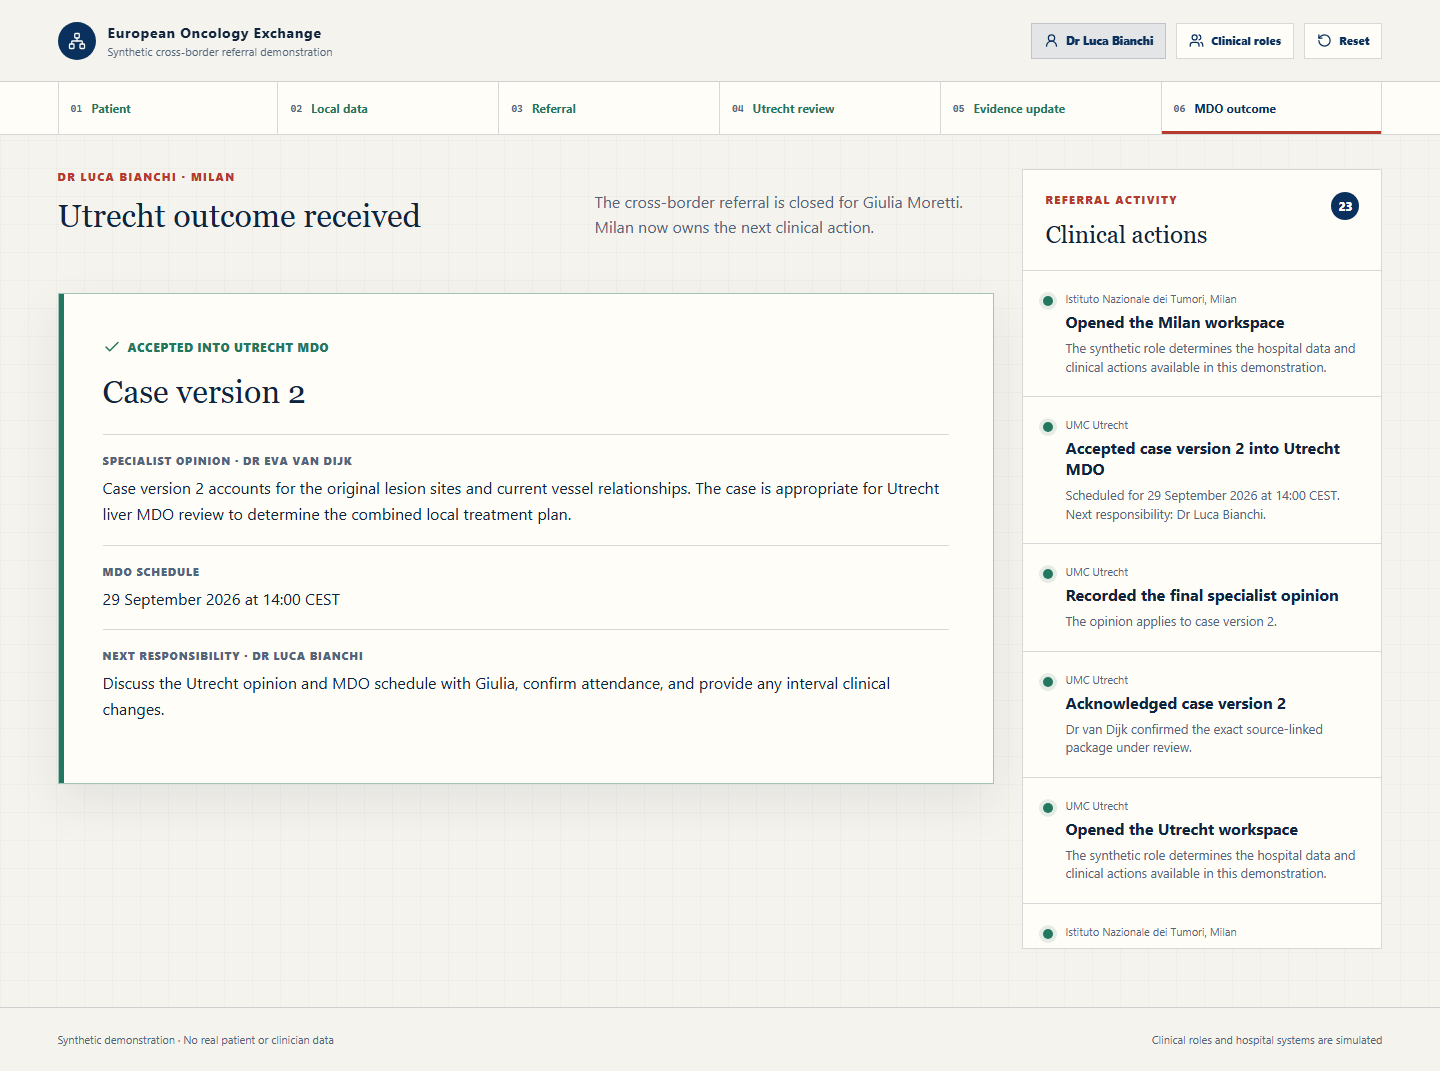
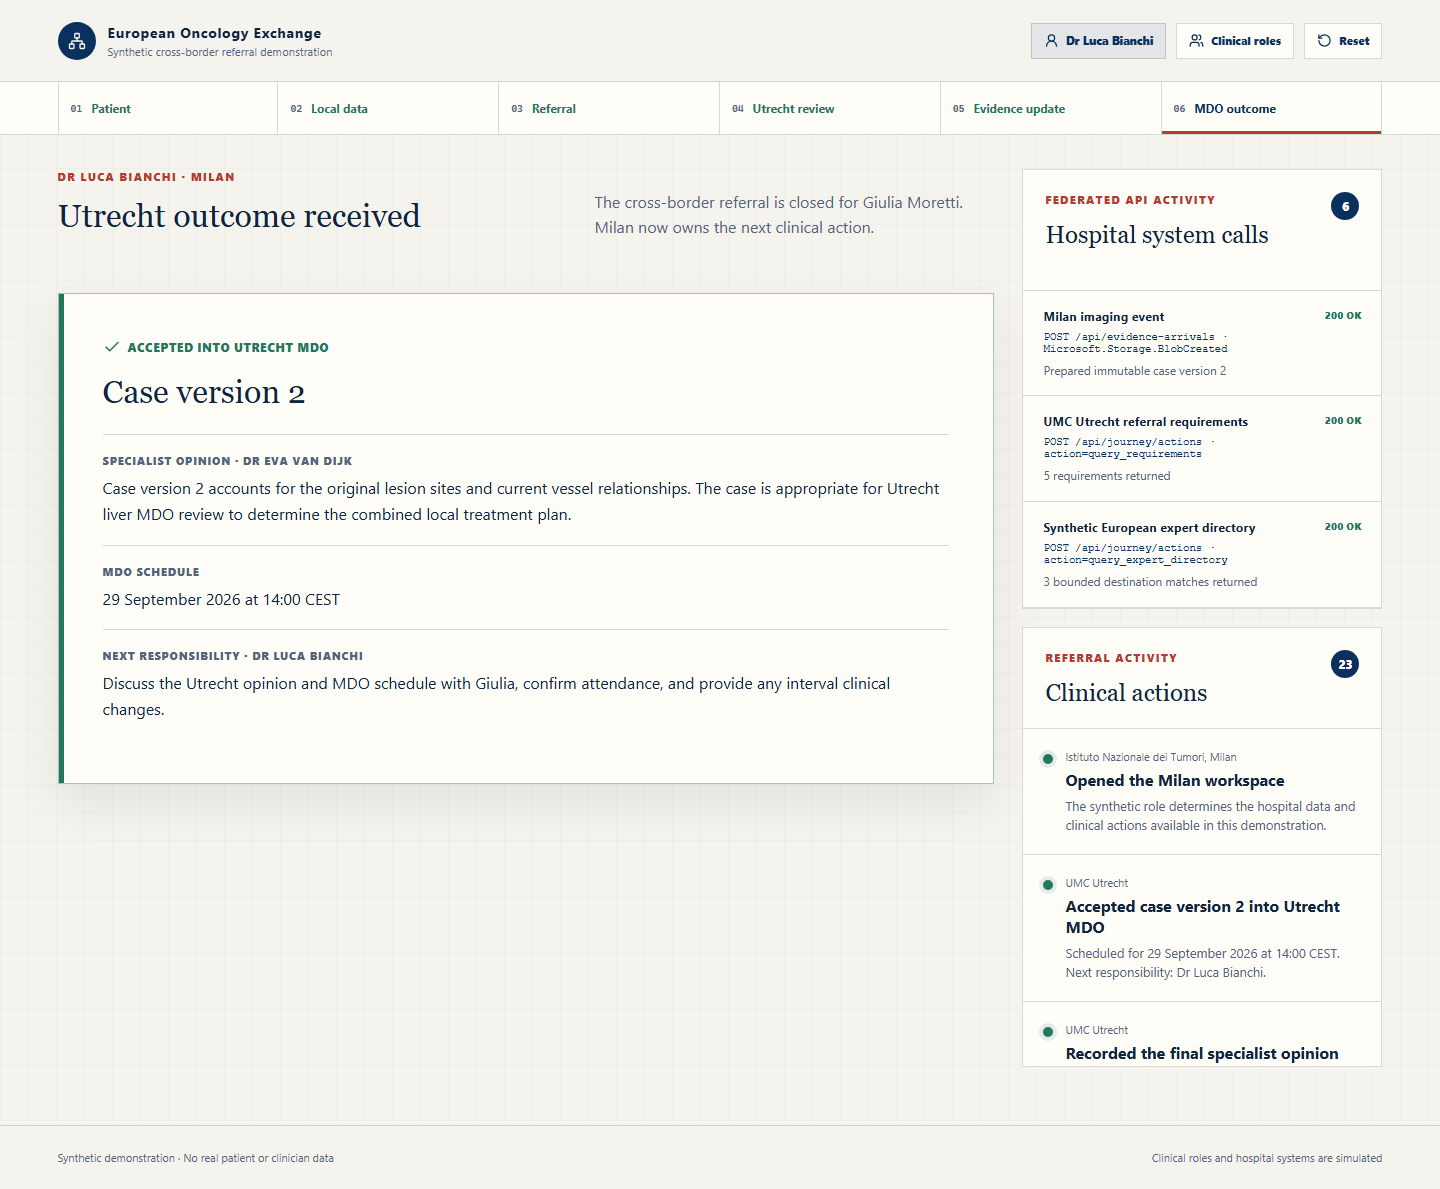
Keep federated API calls visible
The source request details previously lived only on the transient local-data screen. Add a persistent API activity panel with method, endpoint, source system, status, and result summary across every referral screen, plus a browser regression test.

Copilot-Session: 4f6a1c83-f0ff-47cc-892b-d9c9d4d22c84

diff --git a/frontend/src/App.tsx b/frontend/src/App.tsx
@@ -509,7 +509,10 @@ function App() {
               <MilanOutcome snapshot={snapshot} patient={selectedPatient} />
             )}
           </section>
-          <ActivityTimeline activity={snapshot.activity} />
+          <div className="journey-sidebar">
+            <ApiActivity snapshot={snapshot} />
+            <ActivityTimeline activity={snapshot.activity} />
+          </div>
         </div>
       )}
 
@@ -1535,6 +1538,94 @@ function MilanOutcome({
         </dl>
       </article>
     </section>
+  )
+}
+
+function ApiActivity({ snapshot }: { snapshot: JourneySnapshot }) {
+  const calls = [
+    ...snapshot.source_checks.map((check) => ({
+      id: check.source_id,
+      system: check.source_label,
+      endpoint: `POST ${check.endpoint}`,
+      status: check.status === 'complete' ? '200 OK' : 'Failed',
+      detail:
+        check.status === 'complete'
+          ? `${check.records.filter((record) => record.status === 'available').length} of ${check.records.length} expected records available`
+          : check.error ?? 'The source request failed.',
+    })),
+    ...(snapshot.activity.some((event) => event.kind === 'directory_queried')
+      ? [
+          {
+            id: 'expert-directory',
+            system: 'Synthetic European expert directory',
+            endpoint: 'POST /api/journey/actions · action=query_expert_directory',
+            status: '200 OK',
+            detail: `${snapshot.destinations.length} bounded destination matches returned`,
+          },
+        ]
+      : []),
+    ...(snapshot.activity.some((event) => event.kind === 'requirements_queried')
+      ? [
+          {
+            id: 'utrecht-requirements',
+            system: 'UMC Utrecht referral requirements',
+            endpoint: 'POST /api/journey/actions · action=query_requirements',
+            status: '200 OK',
+            detail: `${snapshot.requirements.length} requirements returned`,
+          },
+        ]
+      : []),
+    ...(snapshot.evidence_update
+      ? [
+          {
+            id: 'evidence-arrival',
+            system: 'Milan imaging event',
+            endpoint: 'POST /api/evidence-arrivals · Microsoft.Storage.BlobCreated',
+            status: '200 OK',
+            detail: `Prepared immutable case version ${snapshot.evidence_update.case_version}`,
+          },
+        ]
+      : []),
+  ]
+
+  return (
+    <aside className="api-activity" aria-label="API activity" tabIndex={0}>
+      <div className="timeline-heading">
+        <div>
+          <p className="eyebrow">Federated API activity</p>
+          <h2>Hospital system calls</h2>
+        </div>
+        <span>{calls.length}</span>
+      </div>
+      {calls.length === 0 ? (
+        <div className="timeline-empty">
+          <Network size={22} />
+          <p>Source-system requests will appear after a patient is selected.</p>
+        </div>
+      ) : (
+        <ol>
+          {[...calls].reverse().map((call) => (
+            <li key={call.id}>
+              <div className="api-call-heading">
+                <strong>{call.system}</strong>
+                <em className={call.status === '200 OK' ? 'success' : 'failed'}>
+                  {call.status}
+                </em>
+              </div>
+              <code>{call.endpoint}</code>
+              <p>{call.detail}</p>
+            </li>
+          ))}
+        </ol>
+      )}
+      <div className="timeline-boundary">
+        <Building2 size={17} />
+        <p>
+          These requests query hospital-owned systems. Querying does not copy every source record
+          into shared collaboration state.
+        </p>
+      </div>
+    </aside>
   )
 }
 

diff --git a/frontend/src/App.css b/frontend/src/App.css
@@ -843,13 +843,71 @@
   line-height: 1.6;
 }
 
-.activity-timeline {
-  max-height: calc(100vh - 180px);
+.journey-sidebar {
   position: sticky;
   top: 20px;
+  display: grid;
+  gap: 18px;
+}
+
+.activity-timeline,
+.api-activity {
+  max-height: calc(50vh - 40px);
   overflow: auto;
   border: 1px solid var(--line);
   background: var(--white);
+}
+
+.api-activity ol {
+  margin: 0;
+  padding: 0;
+  list-style: none;
+}
+
+.api-activity li {
+  padding: 17px 20px;
+  border-bottom: 1px solid var(--line);
+}
+
+.api-call-heading {
+  display: flex;
+  gap: 12px;
+  align-items: start;
+  justify-content: space-between;
+}
+
+.api-call-heading strong {
+  font-size: 0.78rem;
+}
+
+.api-call-heading em {
+  font-size: 0.65rem;
+  font-style: normal;
+  font-weight: 850;
+  white-space: nowrap;
+}
+
+.api-call-heading em.success {
+  color: var(--success);
+}
+
+.api-call-heading em.failed {
+  color: var(--warning);
+}
+
+.api-activity code {
+  margin-top: 7px;
+  display: block;
+  overflow-wrap: anywhere;
+  color: var(--blue-deep);
+  font-size: 0.66rem;
+}
+
+.api-activity li p {
+  margin: 7px 0 0;
+  color: var(--ink-soft);
+  font-size: 0.74rem;
+  line-height: 1.4;
 }
 
 .timeline-heading {
@@ -940,6 +998,13 @@
 
   .activity-timeline {
     max-height: none;
+  }
+
+  .api-activity {
+    max-height: none;
+  }
+
+  .journey-sidebar {
     position: static;
   }
 }

diff --git a/frontend/tests/api-visibility.spec.ts b/frontend/tests/api-visibility.spec.ts
@@ -1,0 +1,16 @@
+import { expect, test } from '@playwright/test'
+
+test('keeps federated API activity visible after source checks complete', async ({ page }) => {
+  await page.request.post('/api/reset')
+  await page.goto('/')
+  await page.getByRole('button', { name: 'Open Milan workspace' }).click()
+  await page.getByRole('button', { name: 'Prepare specialist referral' }).click()
+  await expect(page.getByText('Local data check complete')).toBeVisible()
+  await page.getByRole('button', { name: 'Confirm referral and destination' }).click()
+
+  const apiActivity = page.getByRole('complementary', { name: 'API activity' })
+  await expect(apiActivity).toBeVisible()
+  await expect(
+    apiActivity.getByText('POST /api/journey/actions', { exact: false }).first(),
+  ).toBeVisible()
+})
